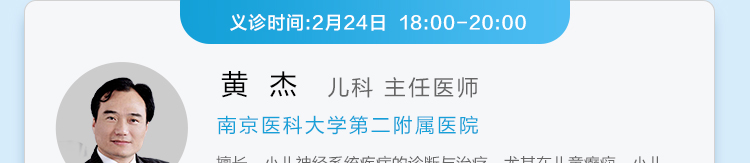
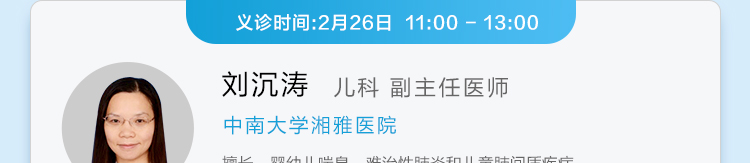
fixed

diff --git a/index.html b/index.html
@@ -1,162 +1,25 @@
 <!doctype html>
-<html manifest="IGNORE.manifest">
+<html>
 <head>
-	<title>过敏专家在线义诊</title>
-	<meta charset="utf-8"/>
-	 <meta name="viewport" content="width=device-width,initial-scale=1.0"/>
-	
-	<mata desc="开瑞坦联合平安好医生特邀过敏专家义诊"/>
-	
-	
-	<meta name="description" content="开瑞坦联合平安好医生特邀过敏专家义诊">
+	<title></title>
+		<meta name="description" content="开瑞坦联合平安好医生特邀过敏专家义诊">
 	<meta http-equiv="Cache-Control" content="no-cache, no-store, must-revalidate" />
 	<meta http-equiv="Pragma" content="no-cache" />
 	<meta http-equiv="Expires" content="0" />
-	<script src="./axios.min.js?rand=0224"></script>
-	<script src="./jquery-3.4.1.min.js?rand=0224"></script>
+		 <meta name="viewport" content="width=device-width,initial-scale=1.0"/>
+	<meta charset="utf-8"/>
 
-	<style type="text/css">
-		*{
-			box-sizing: border-box;
-		}
-		body{
-			margin:0px;
-			padding:0px;
-			background-color: #d6ecfa;
-
-		}
-		img{
-			display: block;
-			width: 100%;
-		}
-		.header{
-			width:100%;
-			overflow: hidden;
-		}
-		.one-doctor{
-			width: 100%;
-			overflow: hidden;
-			display: block;
-			cursor: pointer;
-		}
-
-		
-		.title{
-			width: 100%;
-			background-color: #f9f9f9;
-			overflow: hidden;
-		}
-		.title .back-button{
-			float: left;
-		}
-		.title .back-button img{
-			max-width: 40px;
-		}
-		.title-desc{
-
-			width: calc(100% - 40px);
-			text-align: center;
-			line-height: 40px;
-			font-size: 16px;
-			font-weight: bold;
-			color:#333;
-		}
-		.one-doctor-footer{
-			width: 100%;
-		}
-	</style>
 </head>
 <body>
 
-	<div>
-		<div class="title">
-			<div class="back-button"><a href="javascript:void(0)" id="backButton"><img src="./arrow-lift.png"/></a></div>
-			<div class="title-desc">过敏专家在线义诊</div>
+	
+	<script type="text/javascript">
+			
+			var rand = Math.ceil(Math.random()*1000000);
 
-		</div>
-		<div class="header">
-			<div><img src="./1.jpg?rand=0224"/></div>
-			<div><img src="./2.jpg?rand=0224"/></div>
-			<div><img src="./3.jpg?rand=0224"/></div>
-		</div>
+		    location.href="./page.html?rand="+rand
 
-
-		<a href="https://www.jk.cn/srilanka/#/doctor-detail/151130680208" class="one-doctor">
-			<div class="one-doctor-1"><img src="./1-1.jpg?rand=0224"/></div>
-			<div class="one-doctor-2"><img src="./1-2.jpg?rand=0224"/></div>
-			<div class="one-doctor-2"><img src="./1-3.jpg?rand=0224"/></div>
-		</a>
-
-		<a href="https://www.jk.cn/srilanka/#/doctor-detail/151242960504" class="one-doctor">
-			<div class="one-doctor-1"><img src="./2-1.jpg?rand=0224"/></div>
-			<div class="one-doctor-2"><img src="./2-2.jpg?rand=0224"/></div>
-			<div class="one-doctor-2"><img src="./2-3.jpg?rand=0224"/></div>
-
-		</a>
-
-		<a href="https://www.jk.cn/srilanka/#/doctor-detail/151359180002" class="one-doctor">
-			<div class="one-doctor-1"><img src="./3-1.jpg?rand=0224"/></div>
-			<div class="one-doctor-2"><img src="./3-2.jpg?rand=0224"/></div>
-			<div class="one-doctor-2"><img src="./3-3.jpg?rand=0224"/></div>
-
-		</a>
-
-
-
-
-	</div>
-	<script src="http://res.wx.qq.com/open/js/jweixin-1.6.0.js?rand=0224"></script>
-
-	<script>
-		$(document).ready(function(){
-
-			$("#backButton").click(function(){
-
-				history.back()
-			})
-
-
-					    var url =location.href.split('#')[0]//"http://qiang.lingstone.cn";
-					    url = encodeURIComponent(url);
-					    var desc="点击进入问诊专区"
-					    var title="开瑞坦联合平安好医生特邀过敏专家义诊"
-					    axios.post('http://api.qiang.lingstone.cn/api/wx/signature2',{url:url}).then(function(_data){
-					   		var data=_data.data.data
-					   		wx.config({
-					        debug: false, // 开启调试模式,
-					        appId: data.appId, // 必填，企业号的唯一标识，此处填写企业号corpid
-					        timestamp: data.timestamp, // 必填，生成签名的时间戳
-					        nonceStr: data.nonceStr, // 必填，生成签名的随机串
-					        signature: data.signature,// 必填，签名，见附录1
-					        jsApiList: ['updateTimelineShareData', 'updateAppMessageShareData']
-					      });
-
-					      wx.ready(function () {
-					        // let stitle = _this.$store.state.config.articleTitle
-					        // alert(_this.$store.state.config.articleTitle)
-					        wx.updateAppMessageShareData({ 
-					          title: title, // 分享标题
-					          desc: desc, // 分享描述
-					          link: window.location.href, // 分享链接
-					          imgUrl: 'http://qiang.lingstone.cn/share.png', // 分享图标
-					          success: function () {
-					            // 设置成功
-					          }
-					        })
-
-					        wx.updateTimelineShareData({ 
-					          title: title, // 分享标题
-					          desc:desc,
-					          link: window.location.href, // 分享链接
-					          imgUrl: 'http://qiang.lingstone.cn/share.png', // 分享图标
-					          success: function () {
-					            // 设置成功
-					          }
-					        })
-					      }); 
-
-					   })
-            })
-</script>
+	</script>
+	
 </body>
 </html>

diff --git a/page.html b/page.html
@@ -1,0 +1,168 @@
+<!doctype html>
+<html manifest="IGNORE.manifest">
+<head>
+	<title>过敏专家在线义诊</title>
+	<meta charset="utf-8"/>
+	 <meta name="viewport" content="width=device-width,initial-scale=1.0"/>
+	
+	<mata desc="开瑞坦联合平安好医生特邀过敏专家义诊"/>
+	
+	
+	<meta name="description" content="开瑞坦联合平安好医生特邀过敏专家义诊">
+	<meta http-equiv="Cache-Control" content="no-cache, no-store, must-revalidate" />
+	<meta http-equiv="Pragma" content="no-cache" />
+	<meta http-equiv="Expires" content="0" />
+	<script src="./axios.min.js?rand=0226"></script>
+	<script src="./jquery-3.4.1.min.js?rand=0226"></script>
+
+	<style type="text/css">
+		*{
+			box-sizing: border-box;
+		}
+		body{
+			margin:0px;
+			padding:0px;
+			background-color: #d6ecfa;
+
+		}
+		img{
+			display: block;
+			width: 100%;
+		}
+		.header{
+			width:100%;
+			overflow: hidden;
+		}
+		.one-doctor{
+			width: 100%;
+			overflow: hidden;
+			display: block;
+			cursor: pointer;
+		}
+
+		
+		.title{
+			width: 100%;
+			background-color: #f9f9f9;
+			overflow: hidden;
+		}
+		.title .back-button{
+			float: left;
+		}
+		.title .back-button img{
+			max-width: 40px;
+		}
+		.title-desc{
+
+			width: calc(100% - 40px);
+			text-align: center;
+			line-height: 40px;
+			font-size: 16px;
+			font-weight: bold;
+			color:#333;
+		}
+		.one-doctor-footer{
+			width: 100%;
+		}
+	</style>
+</head>
+<body>
+
+	<div>
+		<div class="title">
+			<div class="back-button"><a href="javascript:void(0)" id="backButton"><img src="./arrow-lift.png"/></a></div>
+			<div class="title-desc">过敏专家在线义诊</div>
+
+		</div>
+		<div class="header">
+			<div><img src="./1.jpg?rand=0226"/></div>
+			<div><img src="./2.jpg?rand=0226"/></div>
+			<div><img src="./3.jpg?rand=0226"/></div>
+		</div>
+
+
+		<a href="https://www.jk.cn/srilanka/#/doctor-detail/151430100301" class="one-doctor">
+			<div class="one-doctor-1"><img src="./1-1.jpg?rand=0226"/></div>
+			<div class="one-doctor-2"><img src="./1-2.jpg?rand=0226"/></div>
+			<div class="one-doctor-2"><img src="./1-3.jpg?rand=0226"/></div>
+		</a>
+
+		<a href="https://www.jk.cn/srilanka/#/doctor-detail/151189850100" class="one-doctor">
+			<div class="one-doctor-1"><img src="./2-1.jpg?rand=0226"/></div>
+			<div class="one-doctor-2"><img src="./2-2.jpg?rand=0226"/></div>
+			<div class="one-doctor-2"><img src="./2-3.jpg?rand=0226"/></div>
+
+		</a>
+
+		<a href="https://www.jk.cn/srilanka/#/doctor-detail/151302100206" class="one-doctor">
+			<div class="one-doctor-1"><img src="./3-1.jpg?rand=0226"/></div>
+			<div class="one-doctor-2"><img src="./3-2.jpg?rand=0226"/></div>
+			<div class="one-doctor-2"><img src="./3-3.jpg?rand=0226"/></div>
+
+		</a>
+		<a href="https://www.jk.cn/srilanka/#/doctor-detail/151241970806" class="one-doctor">
+			<div class="one-doctor-1"><img src="./4-1.jpg?rand=0226"/></div>
+			<div class="one-doctor-2"><img src="./4-2.jpg?rand=0226"/></div>
+			<div class="one-doctor-2"><img src="./4-3.jpg?rand=0226"/></div>
+
+		</a>
+
+
+
+
+	</div>
+	<script src="http://res.wx.qq.com/open/js/jweixin-1.6.0.js?rand=0226"></script>
+
+	<script>
+		$(document).ready(function(){
+
+			$("#backButton").click(function(){
+
+				history.back()
+			})
+
+
+					    var url =location.href.split('#')[0]//"http://qiang.lingstone.cn";
+					    url = encodeURIComponent(url);
+					    var desc="点击进入问诊专区"
+					    var title="开瑞坦联合平安好医生特邀过敏专家义诊"
+					    axios.post('http://api.qiang.lingstone.cn/api/wx/signature2',{url:url}).then(function(_data){
+					   		var data=_data.data.data
+					   		wx.config({
+					        debug: false, // 开启调试模式,
+					        appId: data.appId, // 必填，企业号的唯一标识，此处填写企业号corpid
+					        timestamp: data.timestamp, // 必填，生成签名的时间戳
+					        nonceStr: data.nonceStr, // 必填，生成签名的随机串
+					        signature: data.signature,// 必填，签名，见附录1
+					        jsApiList: ['updateTimelineShareData', 'updateAppMessageShareData']
+					      });
+
+					      wx.ready(function () {
+					        // let stitle = _this.$store.state.config.articleTitle
+					        // alert(_this.$store.state.config.articleTitle)
+					        wx.updateAppMessageShareData({ 
+					          title: title, // 分享标题
+					          desc: desc, // 分享描述
+					          link: window.location.href, // 分享链接
+					          imgUrl: 'http://qiang.lingstone.cn/share.png', // 分享图标
+					          success: function () {
+					            // 设置成功
+					          }
+					        })
+
+					        wx.updateTimelineShareData({ 
+					          title: title, // 分享标题
+					          desc:desc,
+					          link: window.location.href, // 分享链接
+					          imgUrl: 'http://qiang.lingstone.cn/share.png', // 分享图标
+					          success: function () {
+					            // 设置成功
+					          }
+					        })
+					      }); 
+
+					   })
+            })
+</script>
+</body>
+</html>
